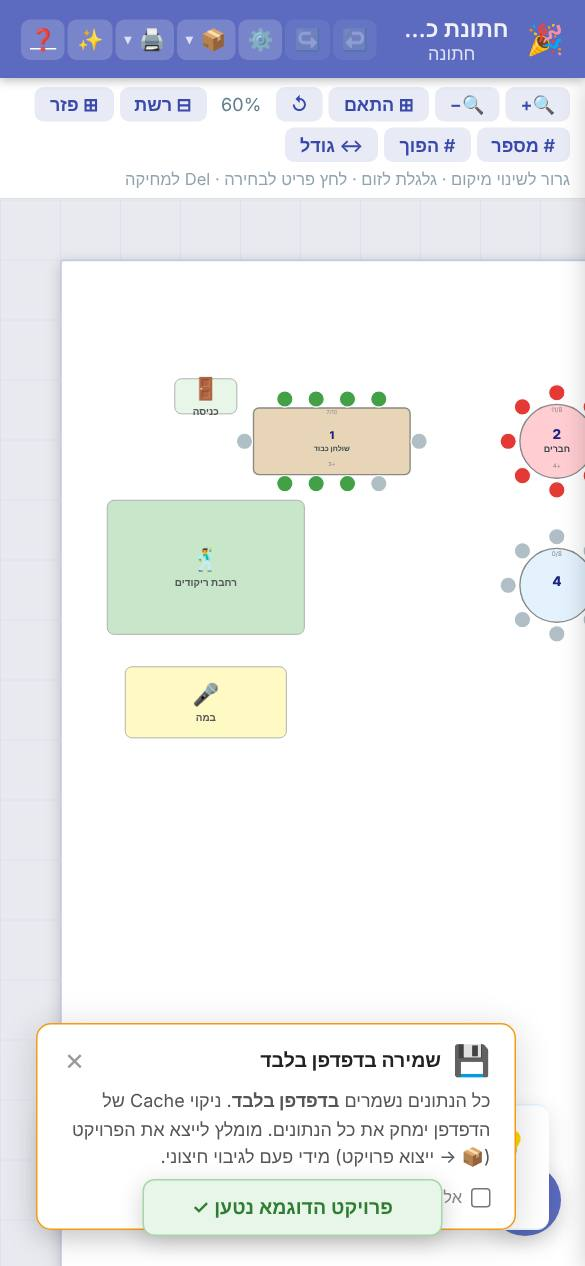
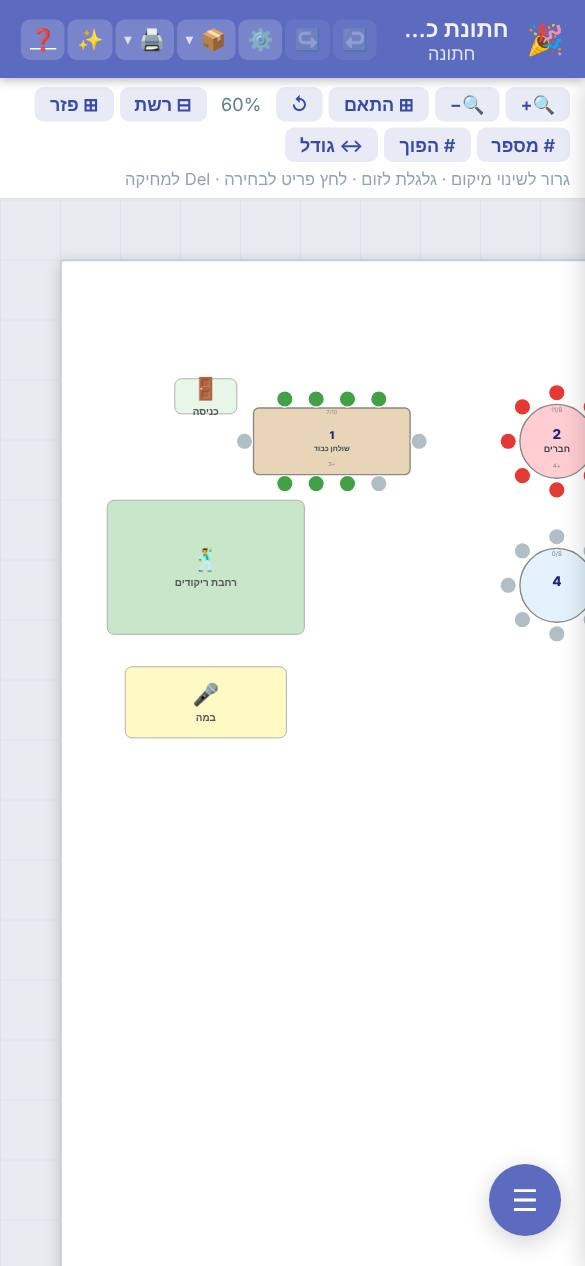
Catalog: ClockWise 0.4.0 (direct APK link, Wear OS, new features), Seating Planner 2.2; sync dates from the version file's last commit; clean seating screenshot
Claude-Session: https://claude.ai/code/session_015MgUfu3Xjt31Gp7GbfyN5X

Changed region(s): [[0.0308, 0.8009, 0.9538, 0.9858]]

diff --git a/tests/unit/catalog.test.js b/tests/unit/catalog.test.js
@@ -60,7 +60,7 @@ test('sorting: recently updated (default), newest, by name; stable and language 
 });
 test('primary action, update badge and recency', () => {
   const by = (id) => cat.apps.find((a) => a.id === id);
-  assert.equal(primaryAction(by('stepup')), 'open'); assert.equal(primaryAction(by('special-events')), 'download'); assert.equal(primaryAction(by('clockwise')), 'releases'); assert.equal(primaryAction(by('file-manager')), 'details');
+  assert.equal(primaryAction(by('stepup')), 'open'); assert.equal(primaryAction(by('special-events')), 'download'); assert.equal(primaryAction(by('clockwise')), 'download'); assert.equal(primaryAction({ links: { web: null }, apk: { state: 'page' } }), 'releases'); assert.equal(primaryAction(by('file-manager')), 'details');
   assert.equal(needsUpdate(by('stepup'), { stepup: '0.1.0' }), true); assert.equal(needsUpdate(by('stepup'), { stepup: by('stepup').version }), false); assert.equal(needsUpdate(by('stepup'), {}), false);
   const day = Date.parse('2026-11-24T12:00:00Z'); assert.equal(daysSince('2026-11-22', day), 2); assert.equal(isRecent({ updated: '2026-11-20' }, day), true); assert.equal(isRecent({ updated: '2026-09-01' }, day), false);
   assert.equal(norm('שָׁלוֹם "א"'), 'שלום א');
